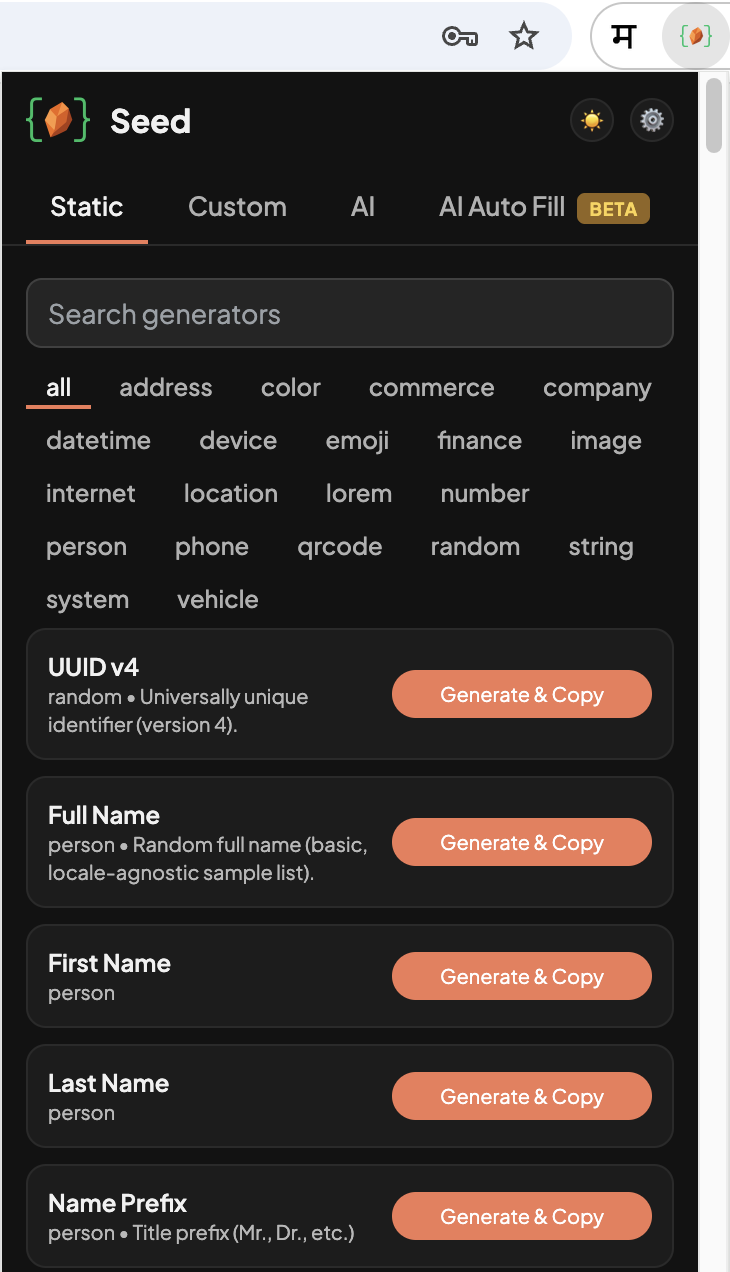
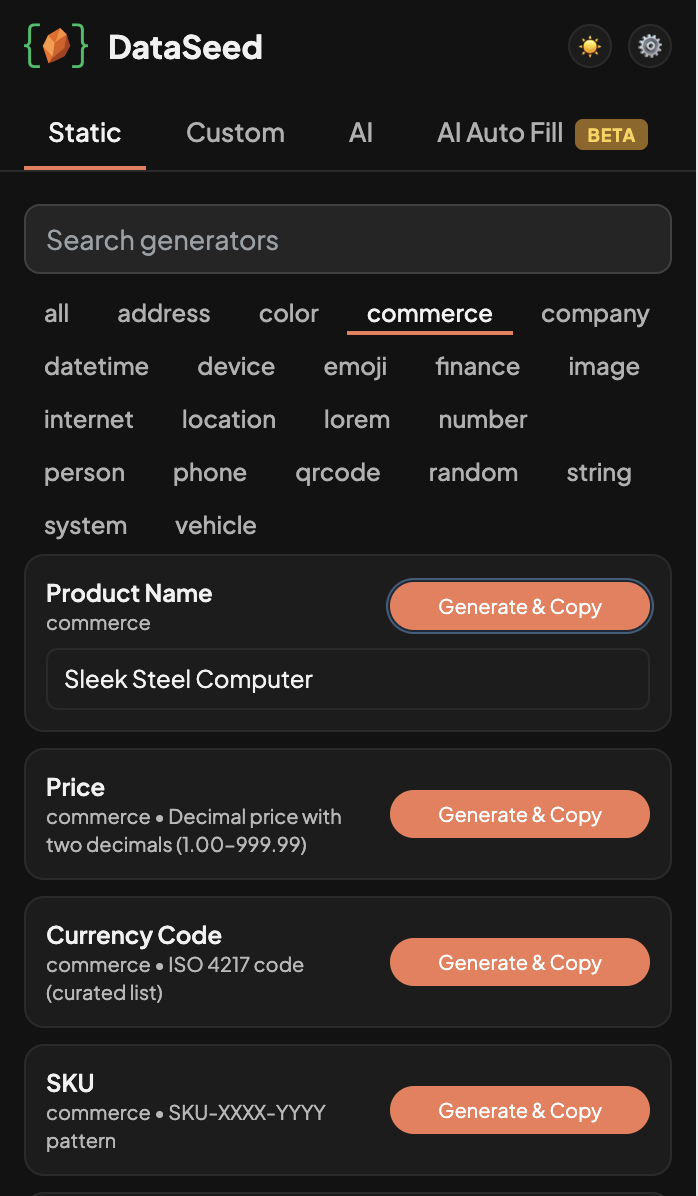
Rebrand from Seed to DataSeed across entire site
Update all references from 'Seed' to 'DataSeed' including page titles, meta descriptions, component text, privacy policy, README, and feature images

diff --git a/src/content/privacy-policy.md b/src/content/privacy-policy.md
@@ -1,4 +1,4 @@
-# Privacy Policy for Seed - Test Data Generator
+# Privacy Policy for DataSeed - Test Data Generator
 ---
 **Effective Date**: 26 November 2025
 **Last Updated**: 26 November 2025
@@ -6,14 +6,14 @@
 ---
 
 ## Introduction
-Seed ("we", "our", or "the extension") is a Chrome browser extension that helps developers and testers generate test data quickly using static generators, custom templates, and AI-powered generation. This privacy policy explains how Seed handles your data.
+DataSeed ("we", "our", or "the extension") is a Chrome browser extension that helps developers and testers generate test data quickly using static generators, custom templates, and AI-powered generation. This privacy policy explains how DataSeed handles your data.
 
 
 ## Data Collection and Storage
 
 ### What Data We Collect
 
-Seed stores the following data **locally on your device only**:
+DataSeed stores the following data **locally on your device only**:
 
 1. **Extension Settings**:
    - AI provider preferences (OpenAI, Gemini, DeepSeek, Ollama)
@@ -85,7 +85,7 @@ If you choose to use AI features, you can configure one or more of these third-p
 
 ## Permissions Explained
 
-Seed requests the following browser permissions:
+DataSeed requests the following browser permissions:
 
 ### 1. **Storage**
 - **Purpose**: To save your settings, API keys, and custom data locally
@@ -155,7 +155,7 @@ You have complete control over your data:
 
 ## Children's Privacy
 
-Seed is intended for developers and testers. We do not knowingly collect data from children under 13. If you are under 13, please do not use this extension.
+DataSeed is intended for developers and testers. We do not knowingly collect data from children under 13. If you are under 13, please do not use this extension.
 
 ---
 
@@ -175,7 +175,7 @@ We may update this privacy policy from time to time. Changes will be indicated b
 
 ## International Users
 
-Seed is a client-side extension that does not collect or transmit data to our servers. If you use cloud AI providers:
+DataSeed is a client-side extension that does not collect or transmit data to our servers. If you use cloud AI providers:
 - OpenAI: Data may be processed in the United States
 - Gemini: Data may be processed by Google globally
 - DeepSeek: Data is processed in the People's Republic of China (DeepSeek servers are located in China)
@@ -185,7 +185,7 @@ Seed is a client-side extension that does not collect or transmit data to our se
 
 ## Contact Information
 
-If you have questions about this privacy policy or how Seed handles data:
+If you have questions about this privacy policy or how DataSeed handles data:
 
 - **Email**: vaikar.abhijeet@gmail.com
 - **Developer**: Abhijeet Vaikar
@@ -217,7 +217,7 @@ If you have questions about this privacy policy or how Seed handles data:
 - Open source and transparent
 
 
-**This privacy policy applies only to the Seed browser extension. Third-party AI providers have their own privacy policies.**
+**This privacy policy applies only to the DataSeed browser extension. Third-party AI providers have their own privacy policies.**
 
 
 ## Changelog

diff --git a/README.md b/README.md
@@ -1,10 +1,10 @@
-# Seed Chrome Extension - Static Website
+# DataSeed Chrome Extension - Static Website
 
-A modern, clean static website for the Seed Chrome extension built with Astro and deployed on GitHub Pages.
+A modern, clean static website for the DataSeed Chrome extension built with Astro and deployed on GitHub Pages.
 
 ## Overview
 
-This website serves as the landing page for Seed, an AI-powered test data generator Chrome extension. The site features:
+This website serves as the landing page for DataSeed, an AI-powered test data generator Chrome extension. The site features:
 
 - Modern, responsive design inspired by Anthropic's aesthetic
 - Animated hero section with typed.js text animation
@@ -201,7 +201,7 @@ Edit the markdown file at [src/content/privacy-policy.md](src/content/privacy-po
 ### Navigation & Footer
 
 - **Navigation**: [src/components/Navigation.astro](src/components/Navigation.astro)
-  - Links: Features, Seed in action, Privacy
+  - Links: Features, DataSeed in action, Privacy
   - Logo displays in header
 
 - **Footer**: [src/components/Footer.astro](src/components/Footer.astro)
